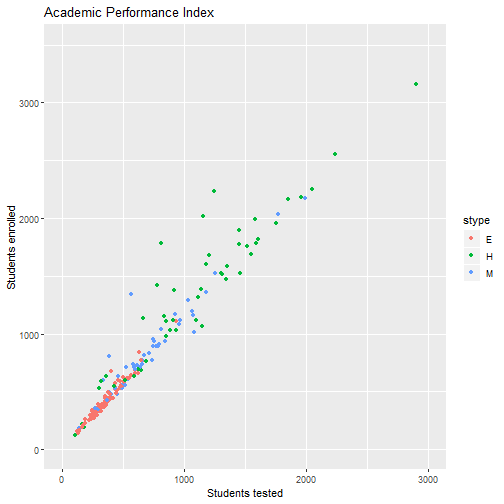
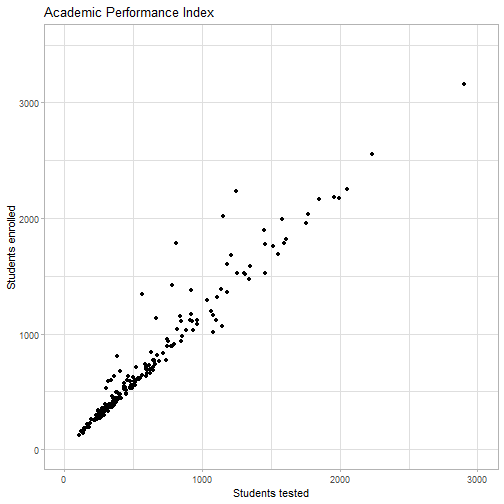
wizualizacja wykres dodge

diff --git a/09_wizualizacja.html b/09_wizualizacja.html
@@ -70,7 +70,7 @@ Pierwsza wersja 10.06.2007
 
 
 ```r
-ggplot(data = zbior_danych, aes(x = cecha1, y=cecha2))
+ggplot(data = zbior_danych, aes(x = cecha1, y = cecha2))
 ```
 
 
@@ -85,6 +85,27 @@ ggplot(data = zbior_danych, aes(x = cecha1, y=cecha2))
 - color - kolor
 
 - shape - kształt
+
+---
+
+# Niezbędny kod
+
+.pull-left[
+
+
+```r
+ggplot(apistrat, aes(x=api.stu, 
+                     y=enroll)) 
+```
+
+]
+
+.pull-right[
+
+![](09_wizualizacja_files/figure-html/unnamed-chunk-4-1.png)&lt;!-- --&gt;
+
+]
+
 
 ---
 
@@ -113,7 +134,7 @@ ggplot(apistrat, aes(x=api.stu,
 
 .pull-right[
 
-![](09_wizualizacja_files/figure-html/unnamed-chunk-4-1.png)&lt;!-- --&gt;
+![](09_wizualizacja_files/figure-html/unnamed-chunk-6-1.png)&lt;!-- --&gt;
 
 ]
 
@@ -157,7 +178,7 @@ ggplot(apistrat, aes(x=api.stu,
 
 .pull-right[
 
-![](09_wizualizacja_files/figure-html/unnamed-chunk-6-1.png)&lt;!-- --&gt;
+![](09_wizualizacja_files/figure-html/unnamed-chunk-8-1.png)&lt;!-- --&gt;
 
 ]
 
@@ -182,7 +203,7 @@ ggplot(apistrat, aes(x=api.stu,
 
 .pull-right[
 
-![](09_wizualizacja_files/figure-html/unnamed-chunk-8-1.png)&lt;!-- --&gt;
+![](09_wizualizacja_files/figure-html/unnamed-chunk-10-1.png)&lt;!-- --&gt;
 
 ]
 
@@ -208,7 +229,7 @@ ggplot(apistrat, aes(x=api.stu,
 
 .pull-right[
 
-![](09_wizualizacja_files/figure-html/unnamed-chunk-10-1.png)&lt;!-- --&gt;
+![](09_wizualizacja_files/figure-html/unnamed-chunk-12-1.png)&lt;!-- --&gt;
 
 ]
 
@@ -219,7 +240,7 @@ ggplot(apistrat, aes(x=api.stu,
 - theme_bw
 - theme_classic
 - theme_dark
-- theme_gray - domyślnie
+- theme_gray (domyślnie)
 - theme_light
 - theme_linedraw
 - theme_minimal
@@ -249,14 +270,14 @@ ggplot(apistrat, aes(x=api.stu,
   xlim(0,3000) +
   ylim(0,3500) +
   ggtitle("Academic Performance Index") +
-  theme_gray()
+  theme_light()
 ```
 
 ]
 
 .pull-right[
 
-![](09_wizualizacja_files/figure-html/unnamed-chunk-12-1.png)&lt;!-- --&gt;
+![](09_wizualizacja_files/figure-html/unnamed-chunk-14-1.png)&lt;!-- --&gt;
 
 ]
 
@@ -277,14 +298,43 @@ ggplot(apistrat, aes(x=api.stu,
   xlim(0,3000) +
   ylim(0,3500) +
   ggtitle("Academic Performance Index") +
-  theme_gray()
+  theme_light()
 ```
 
 ]
 
 .pull-right[
 
-![](09_wizualizacja_files/figure-html/unnamed-chunk-14-1.png)&lt;!-- --&gt;
+![](09_wizualizacja_files/figure-html/unnamed-chunk-16-1.png)&lt;!-- --&gt;
+
+]
+
+---
+
+# Wykres punktowy
+
+.pull-left[
+
+
+```r
+ggplot(apistrat, aes(x=api.stu, 
+                     y=enroll,
+                     color=stype)) + 
+  geom_point() +
+  xlab("Students tested") +
+  ylab("Students enrolled") +
+  scale_color_discrete(name = "School type") +
+  xlim(0,3000) +
+  ylim(0,3500) +
+  ggtitle("Academic Performance Index") +
+  theme_light()
+```
+
+]
+
+.pull-right[
+
+![](09_wizualizacja_files/figure-html/unnamed-chunk-18-1.png)&lt;!-- --&gt;
 
 ]
 
@@ -296,7 +346,7 @@ class: inverse
 
 Porównaj na wykres punktowym zmienne `api00` i `api99`.
 
-<div class="countdown" id="timer_5def7385" style="top:0;right:0;" data-warnwhen="0">
+<div class="countdown" id="timer_5df0ab0a" style="top:0;right:0;" data-warnwhen="0">
 <code class="countdown-time"><span class="countdown-digits minutes">10</span><span class="countdown-digits colon">:</span><span class="countdown-digits seconds">00</span></code>
 </div>
 
@@ -333,7 +383,7 @@ ggplot(apistrat, aes(x=api.stu,
   xlim(0,3000) +
   ylim(0,3500) +
   ggtitle("Academic Performance Index") +
-  theme_gray() +
+  theme_light() +
   ggsave("figs/apifig1.png", 
          width = 12, 
          height = 10, 
@@ -345,11 +395,9 @@ ggplot(apistrat, aes(x=api.stu,
 
 .pull-right[
 
-![](09_wizualizacja_files/figure-html/unnamed-chunk-16-1.png)&lt;!-- --&gt;
+![](09_wizualizacja_files/figure-html/unnamed-chunk-20-1.png)&lt;!-- --&gt;
 
 ]
-
-
 
 ---
 
@@ -375,7 +423,7 @@ ggplot(apistrat, aes(x = stype)) +
 
 .pull-right[
 
-![](09_wizualizacja_files/figure-html/unnamed-chunk-18-1.png)&lt;!-- --&gt;
+![](09_wizualizacja_files/figure-html/unnamed-chunk-22-1.png)&lt;!-- --&gt;
 
 ]
 
@@ -395,7 +443,7 @@ ggplot(apistrat, aes(x = stype)) +
 
 .pull-right[
 
-![](09_wizualizacja_files/figure-html/unnamed-chunk-20-1.png)&lt;!-- --&gt;
+![](09_wizualizacja_files/figure-html/unnamed-chunk-24-1.png)&lt;!-- --&gt;
 
 ]
 
@@ -433,7 +481,71 @@ ggplot(api_stype, aes(x = stype,
 
 .pull-right[
 
-![](09_wizualizacja_files/figure-html/unnamed-chunk-23-1.png)&lt;!-- --&gt;
+![](09_wizualizacja_files/figure-html/unnamed-chunk-27-1.png)&lt;!-- --&gt;
+
+]
+
+---
+
+# Wykres słupkowy - `geom_col`
+
+.pull-left[
+
+
+```r
+api_stype_aw &lt;- svyby(formula = ~api00, 
+                      by = ~stype+awards,
+                      design = dstrat, 
+                      FUN = svymean)
+api_stype_aw
+```
+
+```
+##       stype awards    api00       se
+## E.No      E     No 659.8148 25.76673
+## H.No      H     No 608.7941 15.77133
+## M.No      M     No 599.1154 21.64198
+## E.Yes     E    Yes 679.8356 13.97970
+## H.Yes     H    Yes 662.0000 30.67662
+## M.Yes     M    Yes 677.2083 21.52284
+```
+
+
+
+```r
+ggplot(api_stype_aw, aes(x = stype, 
+                         y = api00,
+                         fill = awards)) +
+  geom_col()
+```
+
+]
+
+.pull-right[
+
+![](09_wizualizacja_files/figure-html/unnamed-chunk-30-1.png)&lt;!-- --&gt;
+
+]
+
+---
+
+# Wykres słupkowy - `geom_col`
+
+.pull-left[
+
+
+```r
+ggplot(api_stype_aw, aes(x = stype, 
+                         y = api00,
+                         fill = awards)) +
+  geom_col(position = "dodge")
+```
+
+]
+
+.pull-right[
+
+![](09_wizualizacja_files/figure-html/unnamed-chunk-32-1.png)&lt;!-- --&gt;
 
 ]
 
@@ -446,9 +558,23 @@ class: inverse
 Oszacuj liczbę osób biorących udział w teście w przekroju typu szkoły i przedstaw na wykresie.
 
 
-<div class="countdown" id="timer_5def7379" style="top:0;right:0;" data-warnwhen="0">
+<div class="countdown" id="timer_5df0abab" style="top:0;right:0;" data-warnwhen="0">
 <code class="countdown-time"><span class="countdown-digits minutes">10</span><span class="countdown-digits colon">:</span><span class="countdown-digits seconds">00</span></code>
 </div>
+
+---
+
+# Podsumowanie
+
+- różne role w zależności od typu wykresu
+
+- odpowiedni typ danych w zależności od roli
+
+- `geom_bar` dla danych jednostkowych np. analiza próby
+
+- `geom_col` dla danych zagregowanych, np. wyniki funkcji `svyby`
+
+- więcej przykładów na stronie [Podstawy programowania w R - wizualizacja danych](http://www.wawrowski.edu.pl/ppr/wizualizacja-danych.html)
 
 ---
 
